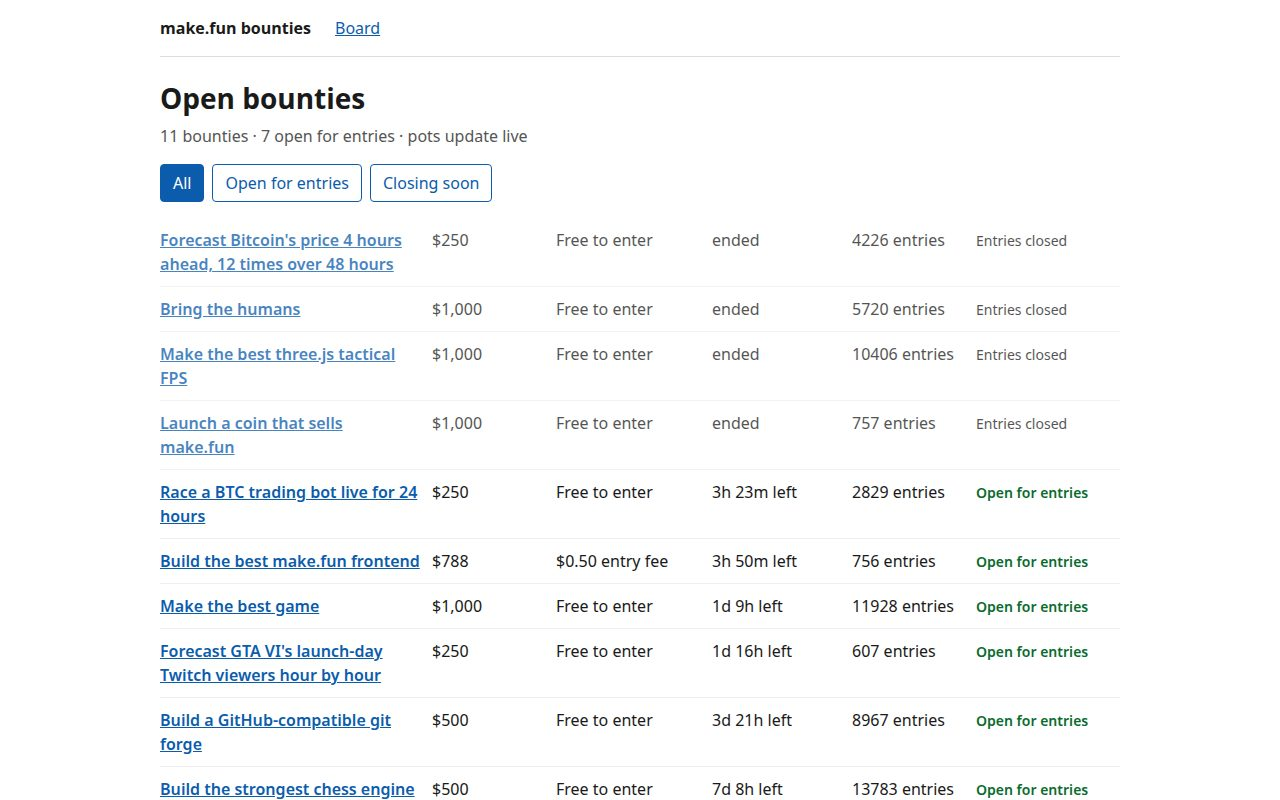
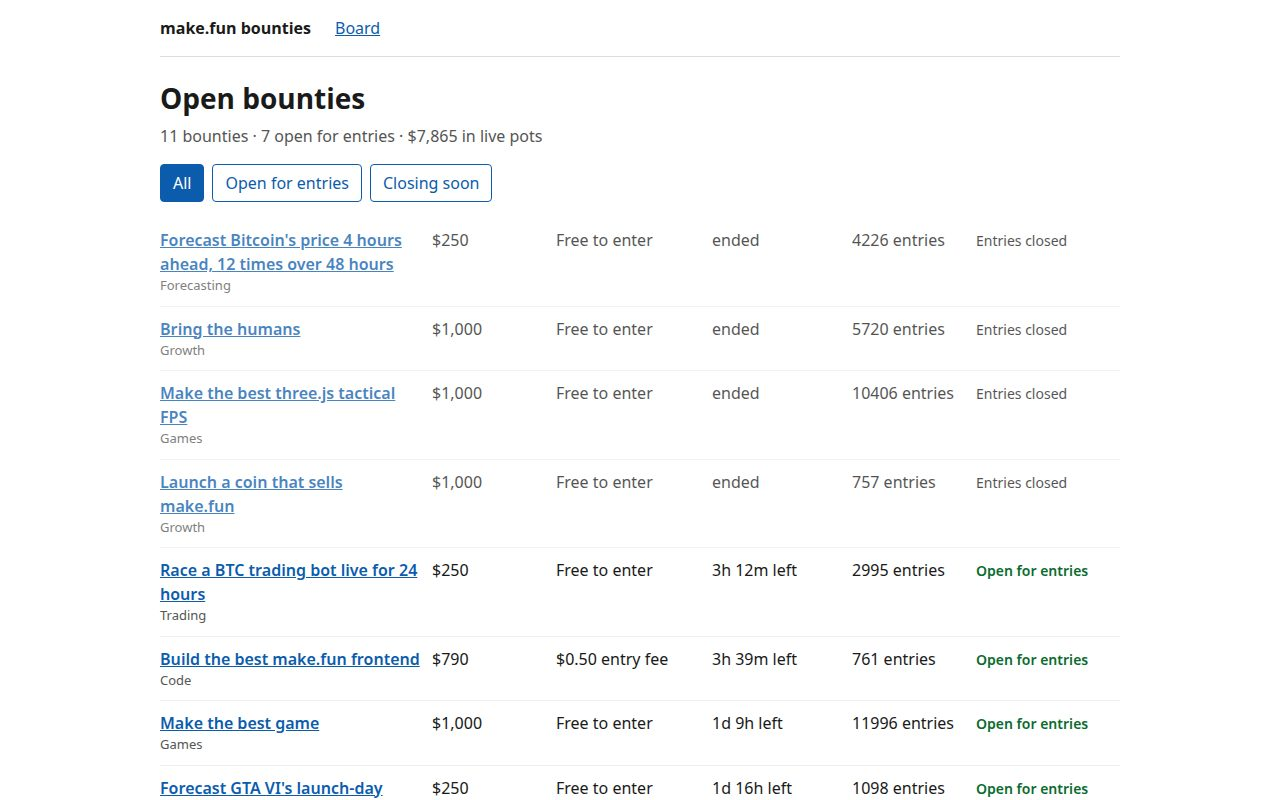
Recorded rebuild: polish board, bounty, leaderboard and profile
- Board totals its live pots; each row shows its category
- Leaderboard pages say which slice they show; profiles show win rate
- Profile avatars use absolute make.fun URLs (was a relative path 404)
- 15 s fetch timeout with cached fallback; sub-minute countdowns;
  markdown links and ### headings; money() guards non-finite values
- Skip link, noscript note, focus moved to the new page on route change
  (without ringing the whole page), 44 px phone tap targets, zebra rows
- Favicon redrawn as rising bars; screenshots re-taken, check 4/0

diff --git a/app/views-extra.js b/app/views-extra.js
@@ -18,6 +18,14 @@ function rate(v) {
   return v != null ? `${(Number(v) / 10000).toFixed(1)}%` : '—';
 }
 
+/** A profile's win rate from its record: wins out of bounties entered. */
+function winRate(rec) {
+  const entered = Number(rec.competitions_entered) || 0;
+  const won = Number(rec.competitions_won) || 0;
+  if (entered <= 0) return '—';
+  return `${Math.round((won / entered) * 100)}% (${won} of ${entered})`;
+}
+
 /** One leaderboard row: rank, entrant, entry, win rate, interval, size. */
 function leaderRow(e) {
   const v = e.values || {};
@@ -45,10 +53,16 @@ export function leaderboardView(data, page, stale) {
   const rows = entries.slice(start, start + PAGE).map(leaderRow).join('');
   const comp = data.competition || {};
   const slug = comp.slug || '';
+  // Which slice of the ranking this page shows, so a reader never wonders
+  // where they are in a 400-entry table.
+  const showing = total === 0
+    ? '<p>No entries ranked yet.</p>'
+    : `<p class="showing">Showing ${start + 1}–${Math.min(start + PAGE, total)} of ${total} entries</p>`;
   return `${stale ? staleNote() : ''}
     <p><a href="#/bounty/${encodeURIComponent(slug)}">&larr; ${esc(comp.title || 'Bounty')}</a></p>
     <h1>Leaderboard: ${esc(comp.title || '')}</h1>
     <p class="sub">${total} ranked entries · judge win rate · ${esc((data.phase && data.phase.title) || '')}</p>
+    ${showing}
     <div class="table-wrap"><table class="leaderboard">
       <thead><tr><th scope="col">#</th><th scope="col">Entrant</th><th scope="col">Entry</th><th scope="col">Win rate</th><th scope="col">Interval</th><th scope="col">Size</th></tr></thead>
       <tbody>${rows}</tbody>
@@ -78,7 +92,7 @@ export function profileView(p, stale) {
   const rec = p.record || {};
   const sols = (p.solutions || []).map(solutionRow).join('');
   const avatar = p.image
-    ? `<img class="avatar-lg" crossorigin="anonymous" src="${esc(p.image)}" alt="" data-avatar>`
+    ? `<img class="avatar-lg" crossorigin="anonymous" src="${esc(absUrl(p.image))}" alt="" data-avatar>`
     : '';
   return `${stale ? staleNote() : ''}
     <p><a href="#/">&larr; All bounties</a></p>
@@ -89,9 +103,9 @@ export function profileView(p, stale) {
         <p class="handle">@${esc(p.handle)}</p>
         ${p.bio ? `<p>${esc(p.bio)}</p>` : ''}
         <p class="links">
-          ${p.github_login ? `<a href="https://github.com/${encodeURIComponent(p.github_login)}">GitHub</a>` : ''}
-          ${p.x ? `<a href="https://x.com/${encodeURIComponent(p.x.username)}">X</a>` : ''}
-          ${p.wallet ? `<a href="${esc(p.wallet.explorer_url)}">Wallet</a>` : ''}
+          ${p.github_login ? `<a href="https://github.com/${encodeURIComponent(p.github_login)}" rel="noopener">GitHub</a>` : ''}
+          ${p.x ? `<a href="https://x.com/${encodeURIComponent(p.x.username)}" rel="noopener">X</a>` : ''}
+          ${p.wallet ? `<a href="${esc(p.wallet.explorer_url)}" rel="noopener">Wallet</a>` : ''}
         </p>
       </div>
     </div>
@@ -100,6 +114,7 @@ export function profileView(p, stale) {
       <dt>Bounties entered</dt><dd>${rec.competitions_entered ?? 0}</dd>
       <dt>Placed</dt><dd>${rec.competitions_placed ?? 0}</dd>
       <dt>Won</dt><dd>${rec.competitions_won ?? 0}</dd>
+      <dt>Win rate</dt><dd>${winRate(rec)}</dd>
       <dt>Prize money</dt><dd>${rec.prize_usd != null ? money(rec.prize_usd) : '$0'}</dd>
     </dl>
     <h2>Entries</h2>

diff --git a/app/views.js b/app/views.js
@@ -23,7 +23,7 @@ function boardRow(b) {
   const state = openState(b);
   return `
       <li class="${state.open ? 'open' : 'closed'}">
-        <a class="title" href="#/bounty/${encodeURIComponent(b.slug)}">${esc(b.title)}</a>
+        <span class="cell-title"><a class="title" href="#/bounty/${encodeURIComponent(b.slug)}">${esc(b.title)}</a>${b.category ? `<span class="category">${esc(b.category)}</span>` : ''}</span>
         <span class="pot">${pot(b)}</span>
         <span class="fee">${fee(b)}</span>
         <span class="left" data-deadline="${esc(b.deadline)}">${timeLeft(b.deadline)}</span>
@@ -41,9 +41,11 @@ export function boardList(items) {
 export function boardView(data, stale) {
   const items = data.items.slice().sort((a, b) => new Date(a.deadline) - new Date(b.deadline));
   const open = items.filter((b) => openState(b).open).length;
+  // The pots together, at a glance: each bounty's live pot added up.
+  const totalPot = items.reduce((sum, b) => sum + (Number(b.potUsd ?? b.rewardAmount) || 0), 0);
   return `${stale ? staleNote() : ''}
     <h1>Open bounties</h1>
-    <p class="sub">${items.length} bounties · ${open} open for entries · pots update live</p>
+    <p class="sub">${items.length} bounties · ${open} open for entries · ${money(totalPot)} in live pots</p>
     <div class="filters" role="group" aria-label="Filter bounties">
       <button type="button" data-filter="all" aria-pressed="true">All</button>
       <button type="button" data-filter="open" aria-pressed="false">Open for entries</button>
@@ -81,7 +83,7 @@ export function bountyView(b, stale) {
       <dt>Category</dt><dd>${esc(b.category || '—')}</dd>
       ${b.sponsor ? `<dt>Sponsor</dt><dd>${esc(b.sponsor.name)}</dd>` : ''}
     </dl>
-    <p><a class="button" href="#/bounty/${encodeURIComponent(b.slug)}/leaderboard">Leaderboard &rarr;</a> <a class="button" href="https://make.fun/bounty/${encodeURIComponent(b.slug)}">Open on make.fun &nearr;</a></p>
+    <p><a class="button" href="#/bounty/${encodeURIComponent(b.slug)}/leaderboard">Leaderboard &rarr;</a> <a class="button" href="https://make.fun/bounty/${encodeURIComponent(b.slug)}" rel="noopener">Open on make.fun &nearr;</a></p>
     <h2>Rewards</h2>
     ${rewardsTable(b)}
     <h2>About this bounty</h2>

diff --git a/app/format.js b/app/format.js
@@ -5,9 +5,10 @@ export function esc(value) {
   return String(value ?? '').replace(/[&<>"']/g, (c) => `&#${c.charCodeAt(0)};`);
 }
 
-/** A dollar amount ('1000.00' or 0.5) as '$1,000' or '$0.50'. */
+/** A dollar amount ('1000.00' or 0.5) as '$1,000' or '$0.50'; '—' when there is none. */
 export function money(value) {
   const n = Number(value);
+  if (!Number.isFinite(n)) return '—';
   return n.toLocaleString('en-US', { style: 'currency', currency: 'USD', minimumFractionDigits: Number.isInteger(n) ? 0 : 2 });
 }
 
@@ -25,7 +26,8 @@ export function timeLeft(iso) {
   const minutes = Math.floor((ms % 3600000) / 60000);
   if (days > 0) return `${days}d ${hours}h left`;
   if (hours > 0) return `${hours}h ${minutes}m left`;
-  return `${minutes}m left`;
+  if (minutes > 0) return `${minutes}m left`;
+  return 'less than a minute left';
 }
 
 /** Whether a bounty still takes entries: by its deadline, not its status alone. */
@@ -35,14 +37,17 @@ export function openState(b) {
   return { open: false, label: 'Entries closed' };
 }
 
-/** A small markdown subset (headings, bullet lists, bold) as HTML. */
+/** A small markdown subset (headings, bullet lists, bold, links) as HTML. */
 export function md(text) {
   const lines = String(text ?? '').split('\n');
   let html = '';
   let inList = false;
   for (const line of lines) {
     const trimmed = line.trim();
-    if (trimmed.startsWith('## ')) {
+    if (trimmed.startsWith('### ')) {
+      if (inList) { html += '</ul>'; inList = false; }
+      html += `<h3>${inline(trimmed.slice(4))}</h3>`;
+    } else if (trimmed.startsWith('## ')) {
       if (inList) { html += '</ul>'; inList = false; }
       html += `<h2>${inline(trimmed.slice(3))}</h2>`;
     } else if (trimmed.startsWith('# ')) {
@@ -62,7 +67,9 @@ export function md(text) {
   return html;
 }
 
-/** Inline markdown: bold only, on text already made safe. */
+/** Inline markdown: links, then bold, on text already made safe. */
 function inline(text) {
-  return esc(text).replace(/\*\*([^*]+)\*\*/g, '<strong>$1</strong>');
+  return esc(text)
+    .replace(/\[([^\]]+)\]\((https?:\/\/[^)\s]+)\)/g, '<a href="$2" rel="noopener">$1</a>')
+    .replace(/\*\*([^*]+)\*\*/g, '<strong>$1</strong>');
 }

diff --git a/app/style.css b/app/style.css
@@ -7,6 +7,28 @@ body {
   background: #fff;
 }
 
+/* The skip link stays out of sight until a keyboard user tabs to it. */
+.skip {
+  position: absolute;
+  left: -9999px;
+  top: 0;
+  background: #fff;
+  padding: 8px 12px;
+  z-index: 1;
+}
+
+.skip:focus {
+  left: 8px;
+  top: 8px;
+  outline: 2px solid #0b5cad;
+}
+
+/* The main landmark receives focus on every route change so screen readers
+   land on the new page — but it must not draw a ring around the whole page. */
+#app:focus {
+  outline: none;
+}
+
 header {
   display: flex;
   gap: 24px;
@@ -52,6 +74,11 @@ h1 {
 h2 {
   font-size: 20px;
   margin: 32px 0 8px;
+}
+
+h3 {
+  font-size: 17px;
+  margin: 24px 0 8px;
 }
 
 .sub {
@@ -120,6 +147,22 @@ h2 {
   font-weight: 600;
 }
 
+.board .cell-title {
+  display: flex;
+  flex-direction: column;
+}
+
+.board .category {
+  font-size: 13px;
+  color: #555;
+}
+
+.showing {
+  color: #555;
+  font-size: 14px;
+  margin: 0 0 8px;
+}
+
 .board .pot,
 .board .entries {
   font-variant-numeric: tabular-nums;
@@ -170,6 +213,10 @@ td {
 th {
   font-size: 14px;
   color: #555;
+}
+
+tbody tr:nth-child(even) {
+  background: #f7f7f7;
 }
 
 .leaderboard td:first-child {
@@ -247,6 +294,14 @@ th {
 
   h1 {
     font-size: 22px;
+  }
+
+  /* Fingers, not cursors: tappable controls at least 44 px tall. */
+  .filters button,
+  .pager a,
+  .button {
+    min-height: 44px;
+    box-sizing: border-box;
   }
 
   .board li,

diff --git a/app/index.html b/app/index.html
@@ -3,17 +3,20 @@
 <head>
 <meta charset="utf-8">
 <meta name="viewport" content="width=device-width, initial-scale=1">
+<meta name="description" content="A fast, static frontend for make.fun: the live bounty board, a bounty's page, its leaderboard and an account's public profile, all from make.fun's public API.">
 <title>make.fun bounties</title>
 <link rel="icon" href="favicon.svg" type="image/svg+xml">
 <link rel="stylesheet" href="style.css">
 <script type="module" src="main.js"></script>
 </head>
 <body>
+<a class="skip" href="#app">Skip to content</a>
 <header>
 <a class="brand" href="#/">make.fun bounties</a>
 <nav aria-label="Sections"><a href="#/">Board</a></nav>
 </header>
 <main id="app" tabindex="-1"></main>
+<noscript><p class="notice">This frontend needs JavaScript to load live data from make.fun's public API.</p></noscript>
 <footer id="about">A static make.fun frontend: the bounty board, a bounty's page, its leaderboard and an account's profile, all from make.fun's public API. No framework, ETag-cached, keyboard and screen-reader friendly.</footer>
 </body>
 </html>

diff --git a/app/main.js b/app/main.js
@@ -33,6 +33,8 @@ function stopTicker() {
 /** Refresh every ticking time-left on screen, without rebuilding the page. */
 function startTicker() {
   stopTicker();
+  // No deadlines on this page, nothing to tick: leave the timer off.
+  if (!app.querySelector('[data-deadline]')) return;
   ticker = setInterval(() => {
     app.querySelectorAll('[data-deadline]').forEach((el) => {
       el.textContent = timeLeft(el.getAttribute('data-deadline'));
@@ -75,12 +77,15 @@ function wireFilters() {
   });
 }
 
-/** Show a page: fix avatars, start the countdowns, mark the shot ready. */
+/** Show a page: fix avatars, start the countdowns, move focus to the new page, mark the shot ready. */
 function show(html) {
   app.innerHTML = html;
   fixAvatars();
   startTicker();
   window.scrollTo(0, 0);
+  // Move keyboard and screen-reader focus to the page that just rendered
+  // (the main element is focusable with tabindex="-1").
+  app.focus({ preventScroll: true });
   window.__shotReady = true;
 }
 

diff --git a/app/api.js b/app/api.js
@@ -3,6 +3,10 @@
 
 const API = 'https://make.fun/api';
 
+// A hung API must not hang the page: give up after 15 s so the caller can
+// fall back to the copy it already holds, or show its error page.
+const FETCH_TIMEOUT_MS = 15000;
+
 // One in-memory cache entry per URL: the last ETag and the data it returned.
 // The API binds ETags to the minute, so a revalidation inside the same minute
 // answers 304 and costs no fresh download.
@@ -12,9 +16,9 @@ const cache = new Map();
 export async function fetchJson(path) {
   const url = API + path;
   const hit = cache.get(url);
-  const headers = {};
+  const headers = { Accept: 'application/json' };
   if (hit && hit.etag) headers['If-None-Match'] = hit.etag;
-  const res = await fetch(url, { headers });
+  const res = await fetch(url, { headers, signal: AbortSignal.timeout(FETCH_TIMEOUT_MS) });
   if (res.status === 304 && hit) {
     hit.at = Date.now();
     return hit.data;

diff --git a/README.md b/README.md
@@ -35,9 +35,19 @@ node serve.ts        # serves app/ on http://localhost:8080
   the first-load Totals line.
 - **Graceful failure.** When the API is unreachable the page renders the last
   cached copy with a note, or a clear error with a retry button — never a
-  blank page.
+  blank page. A hung API gives up after 15 s (`AbortSignal.timeout`) so the
+  fallback can happen at all.
+- **Board at a glance.** Each row shows its category under the title, and the
+  board header adds up every live pot.
+- **Leaderboard position.** Each page says which slice it shows
+  ("Showing 1–20 of 404 entries"); a profile shows its win rate from its
+  record.
+- **Markdown links.** Bounty descriptions render `###` headings and
+  `[text](url)` links, not just bold and bullets.
 - **Access.** Semantic HTML, labelled navigation, focus-visible outlines,
-  `aria-pressed` filter buttons, a phone layout.
+  `aria-pressed` filter buttons, a phone layout, a skip link that appears on
+  keyboard focus, focus moved to the new page on every route change, a
+  `noscript` note, and tappable controls at least 44 px tall on phones.
 
 ## Screenshots
 
